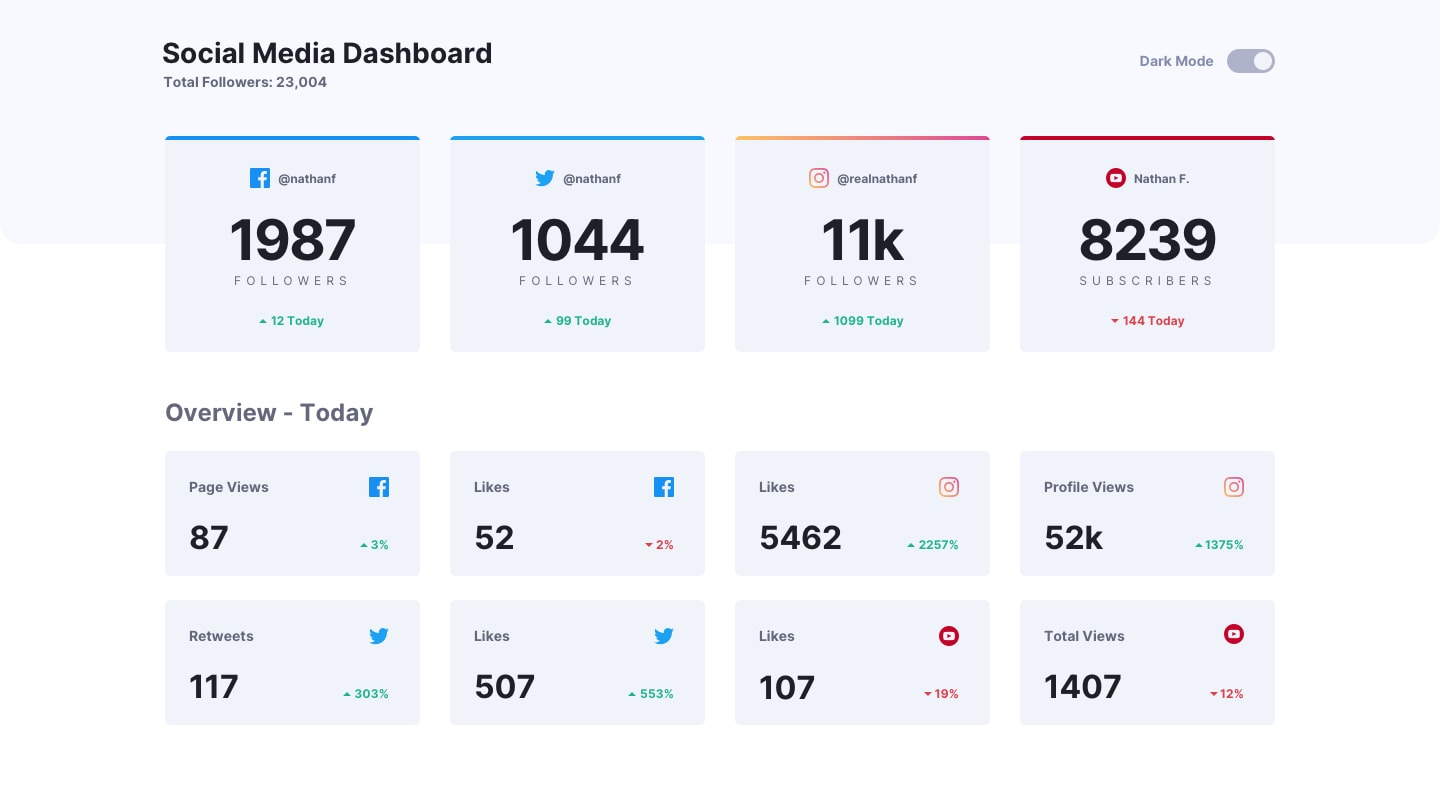
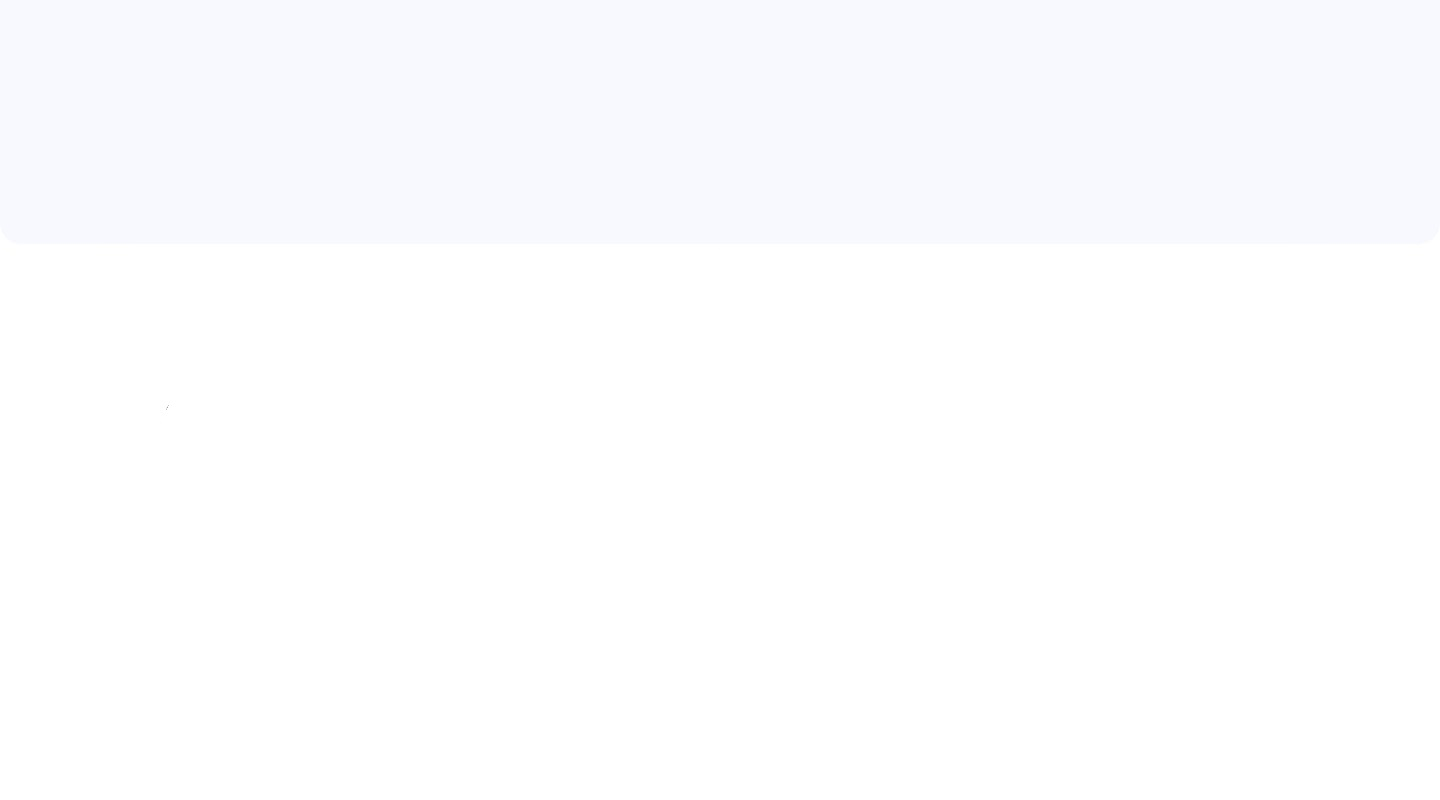
commit inicial

diff --git a/style.scss b/style.scss
@@ -32,8 +32,9 @@ $d-color-number: hsl(0, 0%, 100%);
     background-color: $d-color-bg;
 }
 
+
 #theme:checked~#fundo {
-    background-color: $d-color-bg;
+    background-image: url(img-bg/bg-dark.png);
 
     & h3 {
         color: $d-color-number;
@@ -134,6 +135,9 @@ $d-color-number: hsl(0, 0%, 100%);
 }
 
 #fundo {
+    background-image: url(img-bg/bg-light.png);
+    background-size: 1550px  ;
+    background-repeat: no-repeat no-repeat;
     margin: 0px;
     padding-top: 0px;
     padding-bottom: 0px;

diff --git a/style.css b/style.css
@@ -15,7 +15,7 @@
 }
 
 #theme:checked ~ #fundo {
-  background-color: hsl(230, 17%, 14%);
+  background-image: url(img-bg/bg-dark.png);
 }
 #theme:checked ~ #fundo h3 {
   color: hsl(0, 0%, 100%);
@@ -91,6 +91,9 @@
 }
 
 #fundo {
+  background-image: url(img-bg/bg-light.png);
+  background-size: 1550px;
+  background-repeat: no-repeat no-repeat;
   margin: 0px;
   padding-top: 0px;
   padding-bottom: 0px;
